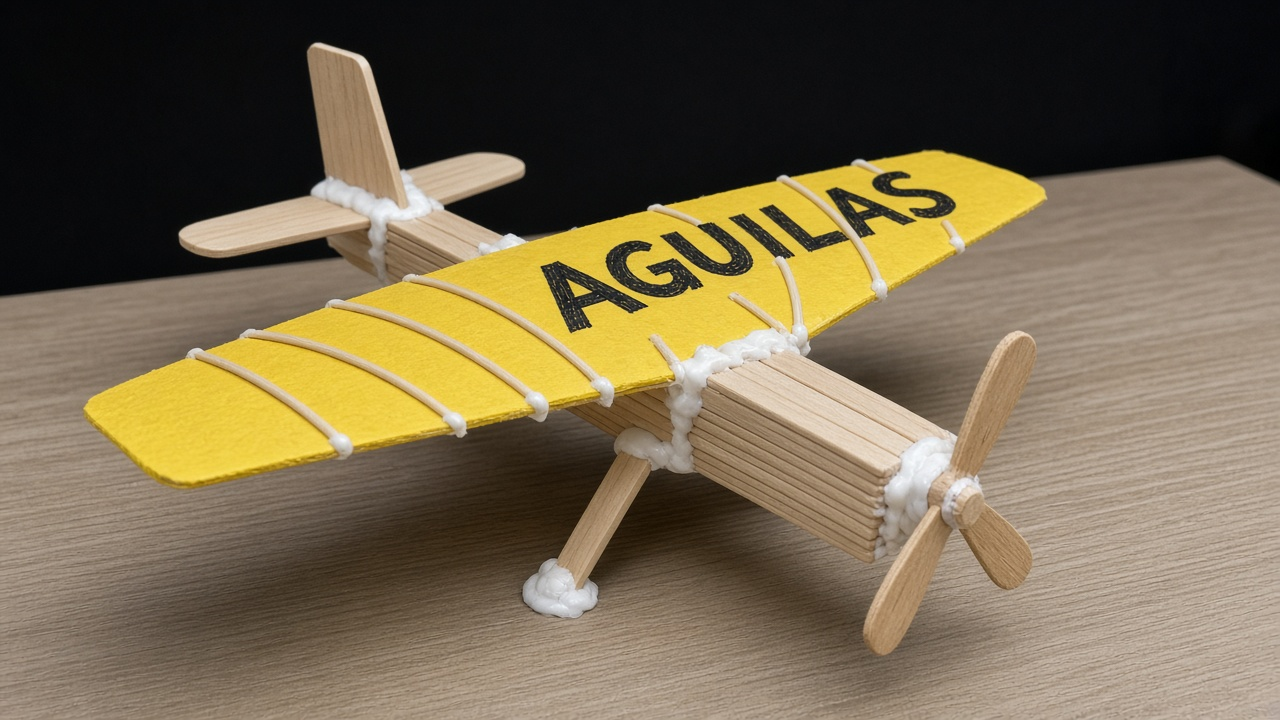
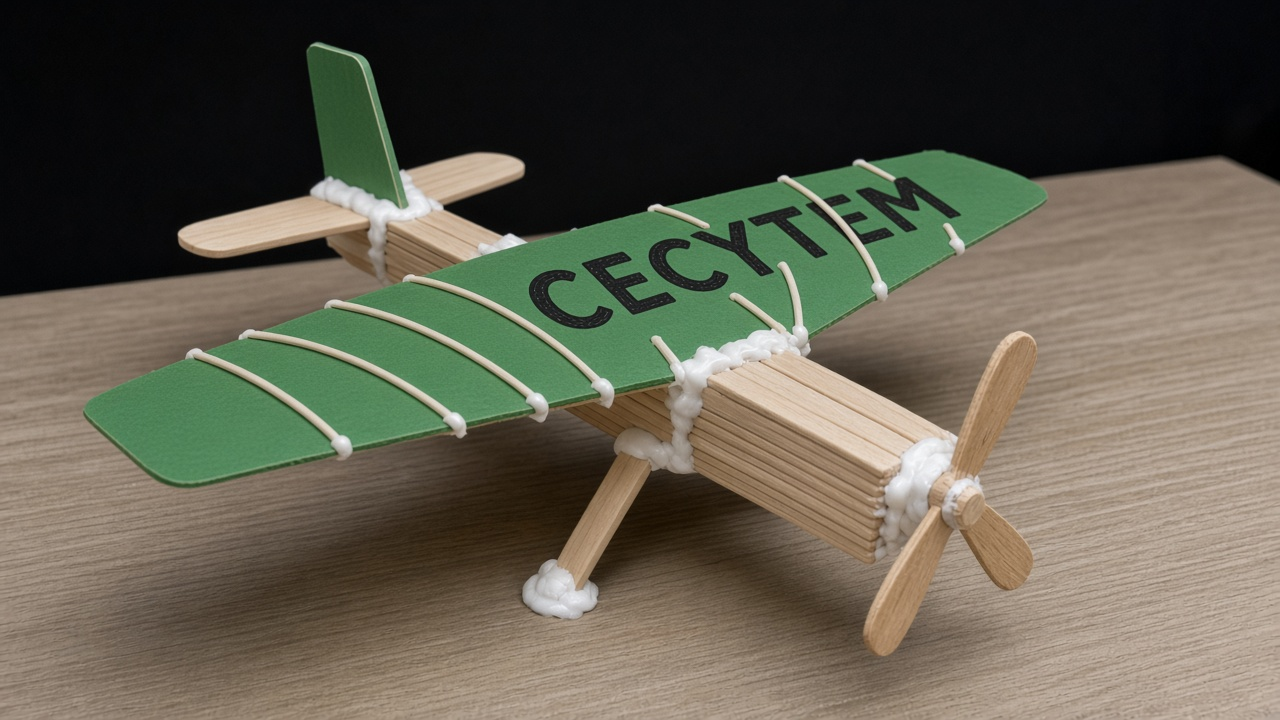
Poner Cecytem y alas verdes en el avion de ejemplo valido.

diff --git a/frontend/src/components/AvionIllustration.tsx b/frontend/src/components/AvionIllustration.tsx
@@ -54,7 +54,7 @@ export default function AvionIllustration({ compact = false }: { compact?: boole
         src="/avion/valido-1.jpg"
         title="Sí cuenta — cascarón, palos y silicón"
         ok
-        alt="Avión de palos de paleta y papel cascarón que sí cuenta"
+        alt="Avión de palos de paleta y cascarón verde con el nombre Cecytem que sí cuenta"
       />
       <ExampleCard
         src="/avion/valido-2.jpg"

diff --git a/frontend/vite.config.ts b/frontend/vite.config.ts
@@ -10,7 +10,7 @@ export default defineConfig({
     VitePWA({
       registerType: "autoUpdate",
       workbox: {
-        cacheId: "simeval-20261009-avion-fotos",
+        cacheId: "simeval-20261009-avion-cecytem",
         skipWaiting: true,
         clientsClaim: true,
         cleanupOutdatedCaches: true,
